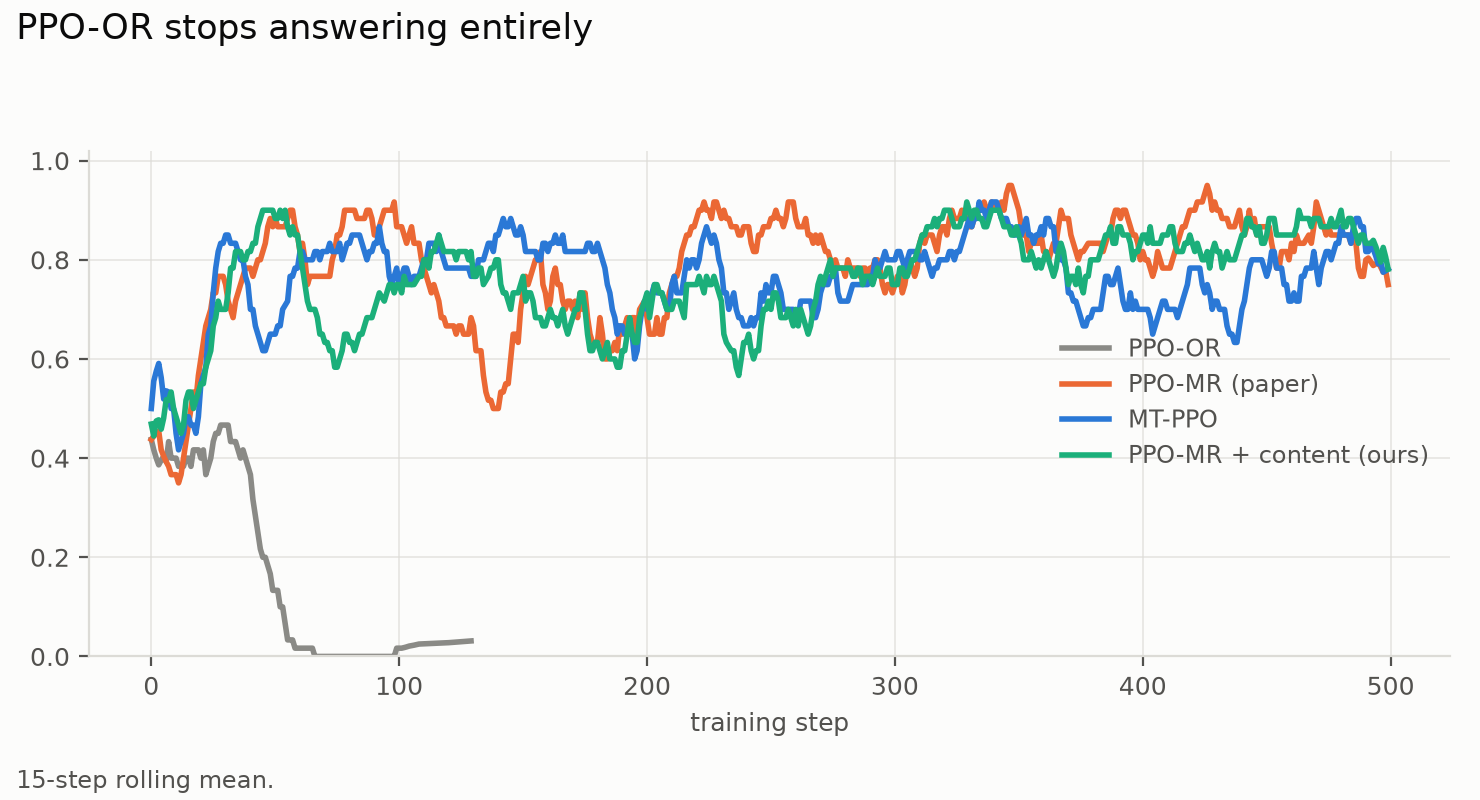
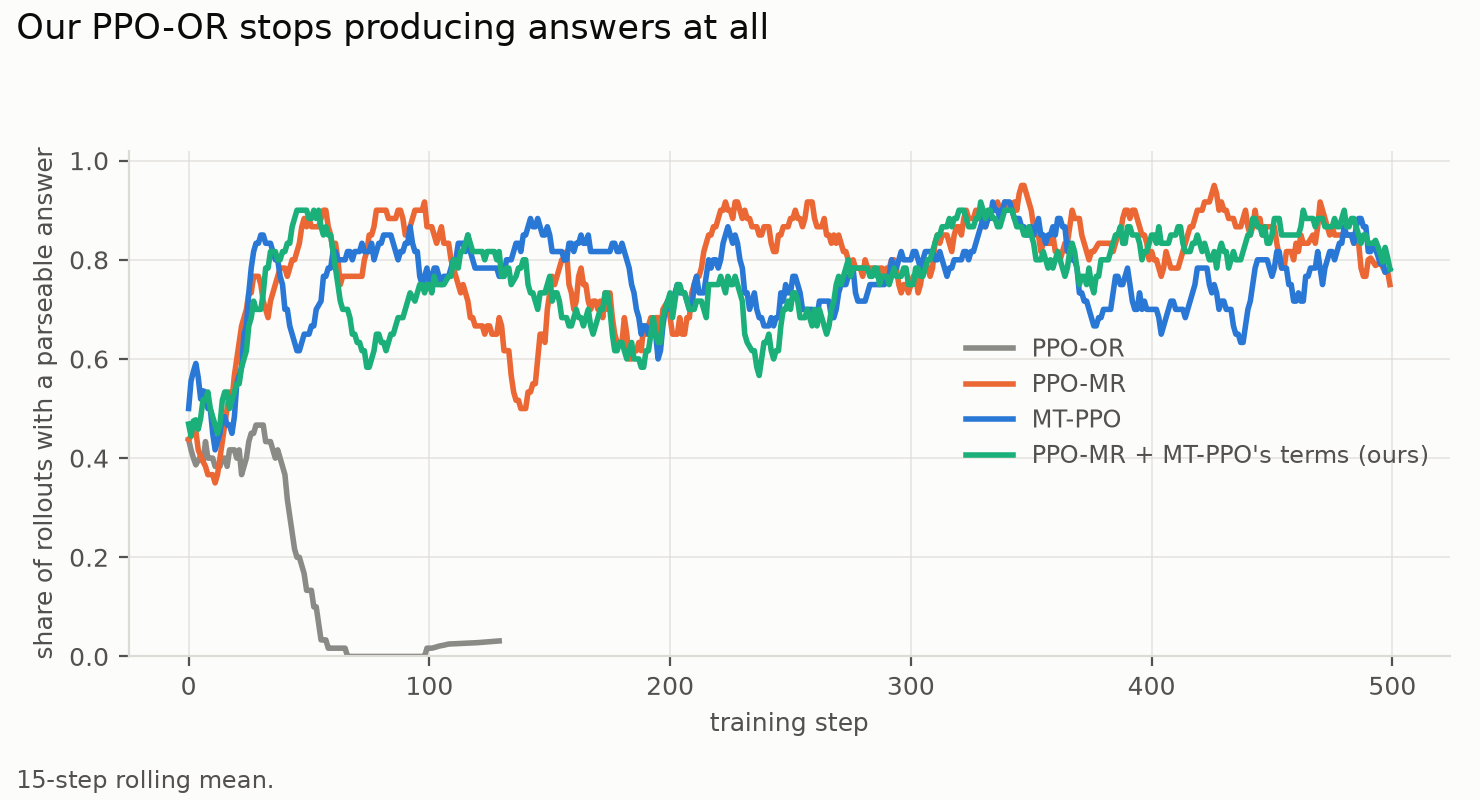
Rework the collapse section: ours-vs-paper table, clearer chart labels

diff --git a/scripts/plot_phase7c.py b/scripts/plot_phase7c.py
@@ -329,11 +329,12 @@ def plot_collapse(curves: dict, out: Path) -> None:
 # arm that died, and it should read as background against the three that trained.
 # Same section order as PAPER_ANCHORS, restricted to the PPO track. PPO-OR is drawn first so the
 # collapsed arm sits behind the three that trained rather than over them.
+# All four series are this repo's own runs; "PPO-MR" is our run of the paper's PPO-MR reward.
 PPO_ARMS = [
     ("PPO-OR", "ppo", DEAD),
-    ("PPO-MR (paper)", "ppo_mr_paper", PAPER),
+    ("PPO-MR", "ppo_mr_paper", PAPER),
     ("MT-PPO", "mt_ppo", OURS),
-    ("PPO-MR + content (ours)", "ppo_mr", GAIN),
+    ("PPO-MR + MT-PPO's terms (ours)", "ppo_mr", GAIN),
 ]
 
 
@@ -357,7 +358,8 @@ def _ppo_curve(curves: dict, key: str, title: str):
 
 def plot_format(curves: dict, out: Path) -> None:
     """PPO-OR flatlining to zero answers while the reward-shaped arms hold near 0.8."""
-    fig, ax = _ppo_curve(curves, "format_compliance", "PPO-OR stops answering entirely")
+    fig, ax = _ppo_curve(curves, "format_compliance", "Our PPO-OR stops producing answers at all")
+    ax.set_ylabel("share of rollouts with a parseable answer", fontsize=9, color=INK_SOFT)
     ax.set_ylim(0, 1.02)
     ax.legend(frameon=False, fontsize=8.5, loc="center right", labelcolor=INK_SOFT)
     fig.tight_layout(rect=(0, 0.04, 1, 0.93))
@@ -370,6 +372,7 @@ def plot_searches(curves: dict, out: Path) -> None:
     fig, ax = _ppo_curve(
         curves, "mean_tool_turns", "The unpenalised arm is not the one that searches to the cap"
     )
+    ax.set_ylabel("searches per episode", fontsize=9, color=INK_SOFT)
     ax.set_ylim(0, 4.4)
     # The cap is what makes "uncontrolled search" legible -- without it the reader cannot tell
     # whether 4 turns per episode is a lot.

diff --git a/README.md b/README.md
@@ -20,7 +20,8 @@ labelled as such and kept separate from the reproduction.
 NVIDIA RTX 4090, vs. the paper's `Qwen2.5-7B` on 8 NVIDIA H100s — with a batch size 128× smaller.
 HotpotQA is one of the paper's own six evaluation datasets; this repo uses it exclusively, for
 its genuinely multi-hop questions. Retrieval is BM25 rather than the paper's dense E5. Every arm
-here is also a single run (n=1) against the paper's n=5, so seed-to-seed variance is unmeasured.
+here is also a single run (n=1); the paper averages five runs for its training curves, so
+seed-to-seed variance here is unmeasured.
 Smaller deviations are noted inline.
 
 ## The Agent
@@ -50,9 +51,9 @@ guess, get scored no differently turn-by-turn. GRPO can't isolate which turn ear
 
 That holds no matter *where* you attach a bonus. GRPO only ever sees one number per trajectory, so
 a bonus placed mid-episode still gets folded into that same number. Actually using *where* a reward
-happened requires a critic that can evaluate any point in a trajectory on its own. PPO has one;
-GRPO doesn't. That's why the later PPO approaches switch algorithms rather than just rearranging
-the reward.
+happened requires a way to value each point in a trajectory on its own. PPO's critic does exactly
+that; GRPO would need extra per-turn rollouts (the paper's `MT-GRPO`, out of scope here). That's
+why the later approaches switch to PPO rather than just rearranging the reward.
 
 Each approach below uses the paper's own reward definitions (arXiv:2505.11821 §5.2/§6.1).
 
@@ -138,77 +139,103 @@ flowchart LR
     R5b -.->|"critic sends credit<br/>backward (GAE)"| R5a
 ```
 
-> **Reward:** `R^I = 0.3·retrieval_hit + format(±0.1 / −0.2) − 0.1·n_searches` at **each turn
-> boundary**, plus `R^O` at the last token.
+> **Reward:** `R^I = 0.3·retrieval_hit + format(+0.1 / −0.2) − 0.1·(searches so far)` at **each
+> turn boundary**, plus `R^O` at the last token.
 
 Note what `R^I` contains that `PPO-MR` does not: a per-turn format term and a search-count penalty.
 
 ## Results
 
-Every arm below: same model, same scaffold, same seed, same dataset, 500 training steps (except
-`PPO-OR`, stopped once it had collapsed), evaluated on the same 7,404 held-out questions.
-Only the reward differs.
+Every arm below: same model, same scaffold, same seed, same dataset, 500 training steps,
+evaluated on the same 7,404 held-out questions. Within each algorithm's track, only the reward
+differs; across the GRPO/PPO divide the algorithm differs too, by design.
+
+| Arm | Held-out EM | What happened |
+|---|---|---|
+| `GRPO-OR` | 0.000 | Collapsed — no gradient at all after step 184 |
+| `GRPO-MR` | 0.295 | Worked |
+| `PPO-OR` | 0.002 | Collapsed — searched forever, stopped answering¹ |
+| `PPO-MR` | 0.235 | Worked |
+| `MT-PPO` | 0.274 | Worked — the paper's best method |
+| `PPO-MR` + MT-PPO's reward terms² | **0.301** | Worked — best arm overall |
+
+¹ Stopped early and evaluated at its last checkpoint before collapse.
+² Our own control arm, not in the paper — see "two effects" below.
 
 ![This reproduction against the paper's published results](results/phase7c_vs_paper.png)
 
-Our exact-match scores sit well below the paper's, and they were never going to match: this trains
-a model **8.75× smaller** on a batch **128× smaller**. The paper's own *untrained* `Qwen2.5-7B`
-scores EM 0.160–0.292 — **roughly where our best trained arm lands.** Their model starts about
-where ours finishes.
+Absolute scores were never going to match the paper's: this model is **8.75× smaller** on a batch
+**128× smaller**, and the paper's *untrained* `Qwen2.5-7B` already scores EM 0.160–0.292 — their
+model starts about where ours finishes. What is comparable is the structure: which rewards work,
+which collapse, and by how much.
 
-So absolute accuracy isn't the thing to read here. What survives the shrink is the **structure** —
-which rewards produce a working model, which kill it outright, and how large the gaps between them
-are. Everything below is about that.
+### Why our `GRPO-OR` and `PPO-OR` collapsed when the paper's didn't
 
-### A binary outcome reward killed both arms that used it
+Same reward, opposite fates — the only thing that changed is scale:
+
+| Run | Paper (Qwen2.5-7B, 8×H100) | Ours (Qwen3.5-0.8B, 1×RTX 4090) |
+|---|---|---|
+| `PPO-OR` | 0.435 EM | 0.002 EM |
+| `GRPO-OR` | 0.331 EM | 0.000 EM |
 
 ![PPO-OR's format compliance falling to zero while the reward-shaped arms hold](results/phase7c_format.png)
 
-`PPO-OR` stops answering and searches to the cap forever — while posting the **best retrieval score
-of any arm** (0.528). The headline metric points the wrong way on a completely broken model.
+`PPO-OR` stopped answering (format compliance 0.003) while posting the best retrieval score of any
+arm (0.528). Watch only the retrieval metric and the most broken arm looks like the best one.
 
 ![GRPO-OR collapsing: reward and reward-variance curves](results/phase7c_collapse.png)
 
-`GRPO-OR` died differently: once every rollout in a group scores the same, GRPO's advantage is zero
-by construction, so the gradient is **exactly 0.0000 from step 186 on** and nothing recovers.
-Adding the retrieval bonus is the whole difference between that and a working model — `GRPO-MR`
-scores 0.295 EM with nothing else changed.
+`GRPO-OR` died differently. When every rollout in a group scores the same, GRPO's advantage is zero
+by construction; after step 184 its gradient is exactly 0.0000 and never recovers. `GRPO-MR` is the
+same arm plus the retrieval bonus, and it scores 0.295.
 
-Why here and not in the paper, whose `PPO-OR` reaches 0.435: collapse needs a batch with **zero**
-correct answers, `(1−p)^N`. A smaller model lowers `p`, a smaller batch lowers `N`, and they
-compound.
+Why does scale decide it? Collapse needs a batch with zero correct answers. If one rollout is
+right with probability `p` and a batch holds `N` rollouts, that chance
+is `(1−p)^N` — a smaller model shrinks `p`, a smaller batch shrinks `N`, and ours are much smaller
+on both counts.
 
 ### A search penalty is not what prevents runaway searching
 
 ![Searches per episode: the unpenalised arm sits near 2 while the collapsed arm pins to the cap](results/phase7c_searches.png)
 
 The paper says removing its search-count penalty causes "uncontrolled search usage." `PPO-MR` runs
-that penalty at **zero** and sits near 2 searches per episode, while the arm glued to the cap is the
-collapsed one. What bounds search is the +0.2 for a wrong-but-formatted answer — always some
-pressure to stop and commit. `PPO-OR` had no such term.
+that penalty at zero and settles near 2 searches per episode. What actually bounds searching is the
++0.2 reward for a wrong-but-formatted answer — always something to gain by stopping and committing.
+`PPO-OR`, the arm with no such term, is the one that searched to the cap forever.
 
 ### The paper's headline gain is two effects, not one
 
-**The paper's headline result reproduced** — `PPO-MR → MT-PPO` gained **+0.039** EM here against
-their **+0.017**. But that step changes reward *content* and reward *placement* at once. Adding the
-missing control separates them:
+The paper's headline result reproduced: `PPO-MR → MT-PPO` is 0.235 → 0.274 EM here, a gain of
++0.039 against the paper's +0.017. But that step changes what the reward *contains* and *where* it
+is placed at once, so we added the control the paper lacks: MT-PPO's reward terms, still all placed
+at the end.
 
 ![Waterfall decomposing the MT-PPO gain into reward content and placement](results/phase7c_decomposition.png)
 
-The content is worth **+0.066**; the turn-level placement the paper's method is named for gives
-**−0.027** back. At n=1 the first is large enough to trust, the second isn't.
+The content is worth +0.066; moving it to the turns loses −0.027. At n=1 the first is large enough
+to trust, the second isn't.
 
 ### Our own experiment: a narrow reward is fragile to added penalties
 
 Separately, we stress-tested a GRPO variant using graded partial credit (F1 + exact-match bonus)
-under three added penalties.
+under added penalties (seed 123, 600 steps):
+
+| Configuration | Outcome-only EM | Merged-reward EM |
+|---|---|---|
+| Baseline | 0.242 | 0.306 |
+| + length penalty | 0.090 | 0.254 |
+| + search-count penalty³ | 0.024 | 0.220 |
+| Control: prompt change only, no penalty | 0.201 | 0.320 |
+
+³ This run also dropped the prompt's "search at most twice" instruction, since the penalty was
+meant to replace it — the control row repeats that prompt change without the penalty.
 
 ![Held-out exact match and completion length across four reward configurations](results/followup_experiments_comparison.png)
 
-No penalty beat the baseline, and the outcome-only arm answered these in **12 and 21 tokens** while
-the merged reward degraded and stayed readable. A penalty-free control ruled out the prompt change,
-so the penalty itself did it — under GRPO, a penalty with no matching positive incentive is a real
-risk, and a denser reward is only partial protection.
+Every penalty hurt. The outcome-only arm collapsed under both — its answers shrank to 12 and 21
+tokens on average — while the merged-reward arm only degraded. The control row pins the damage on
+the penalty itself, not the prompt change that accompanied it. Under GRPO, a penalty with no
+matching positive incentive is a real risk; a denser reward softens the blow but doesn't remove it.
 
 ## Future work
 
@@ -236,4 +263,4 @@ If you use this repo or build on its experiments, please cite the paper it is ba
 
 ## Contributing
 
-See `[CONTRIBUTING.md](CONTRIBUTING.md)` for dev setup, quality gates, and running tests.
+See [CONTRIBUTING.md](CONTRIBUTING.md) for dev setup, quality gates, and running tests.
